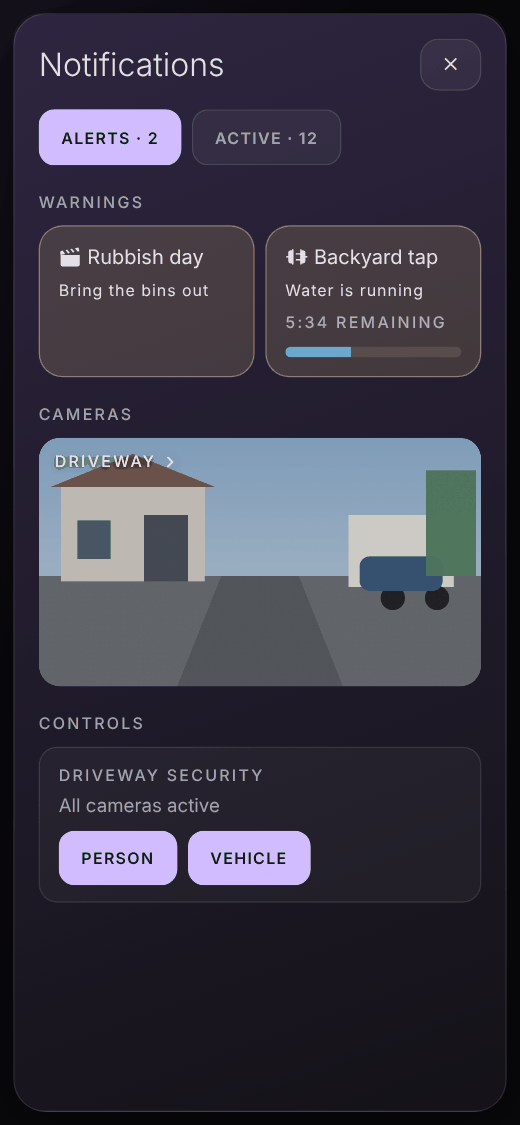
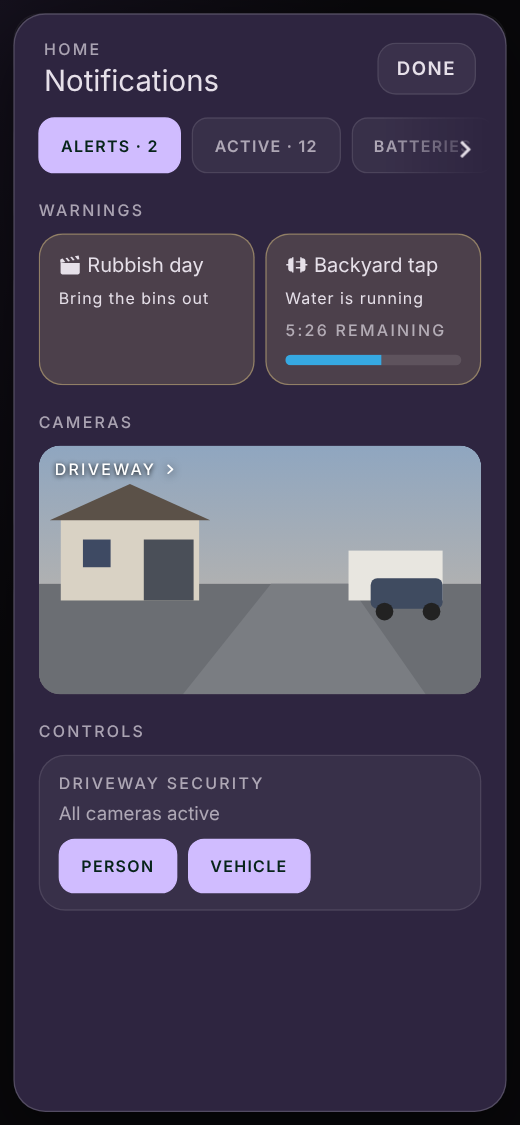
Docs: retake README screenshots (notifications, rooms, security, weather, irrigation, tablet grid)
Claude-Session: https://claude.ai/code/session_01ExsfXpXAckVrJnTfm7WmGz

diff --git a/CHANGELOG.md b/CHANGELOG.md
@@ -6,6 +6,9 @@ Versions are `MAJOR.MINOR.PATCH`. Bug fixes raise the patch number (1.0.0 to 1.0
 
 ## 1.5.4 - 2026-10-19
 
+### Docs
+- README screenshots for Notifications, Rooms, Security, Weather and Irrigation (phone and tablet, dark and light) and the tablet grid were retaken with the current look. All data in them is invented.
+
 ### Fixes
 - **Camera view (#view) header, all sizes.** The Person tag no longer sits on top of the sound and mic buttons, LIVE is in the corner where it belongs, and the controls no longer overlap in the dual driveway + garage view.
   - Phones (upright, and the narrow dual cards in landscape): two rows. Row 1 is the name, Person tag and LIVE; row 2 is sound, mic, Playback, full screen and Close.
